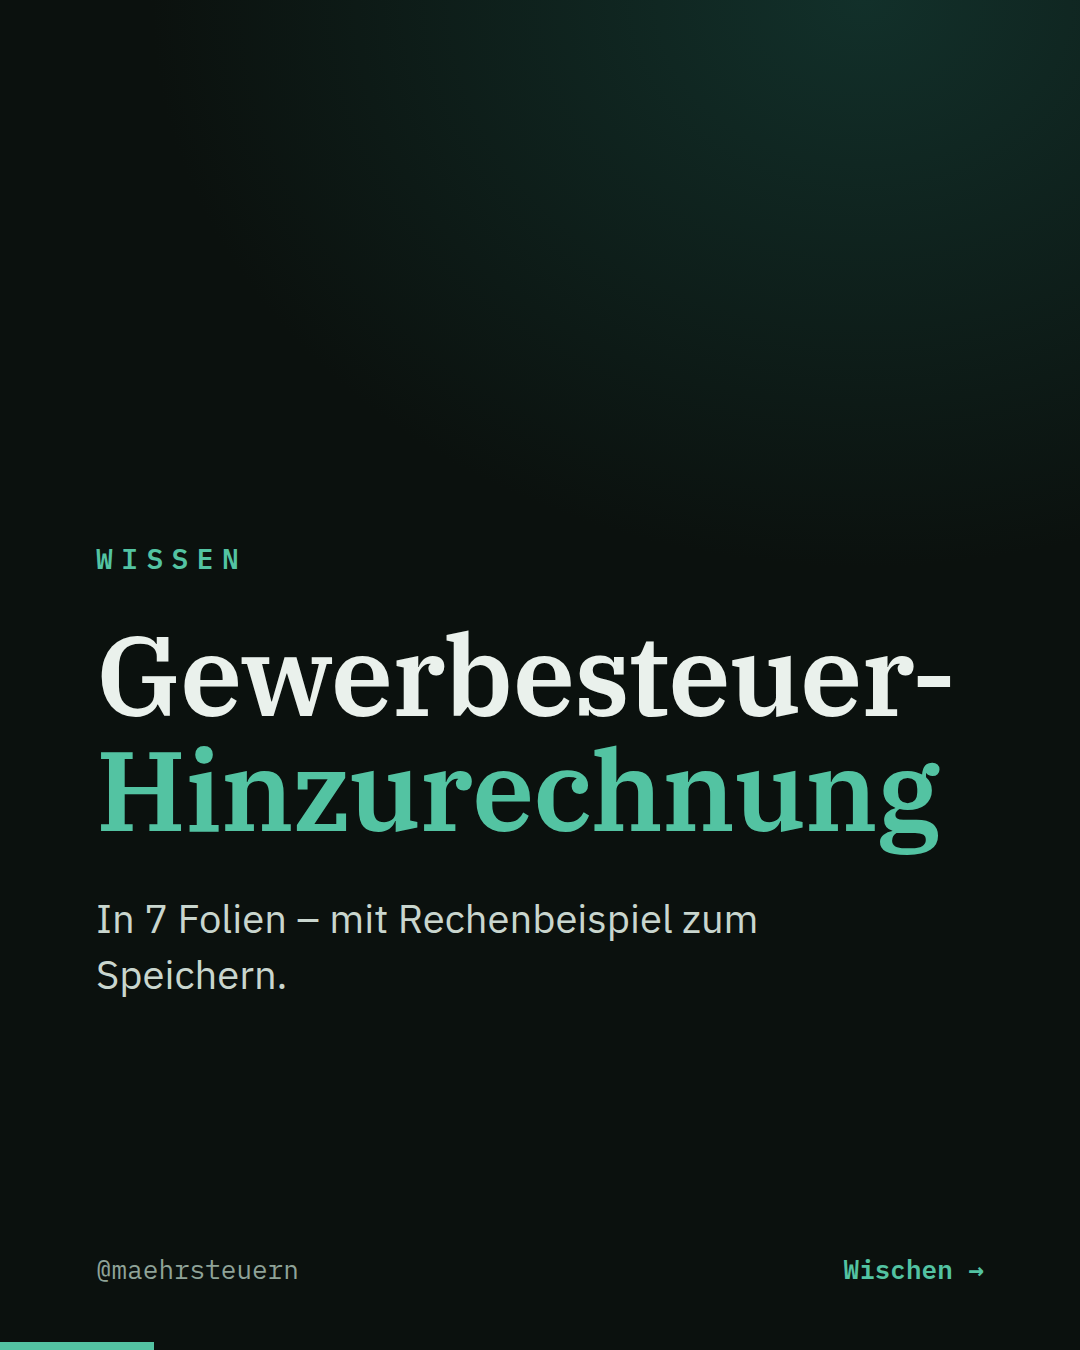
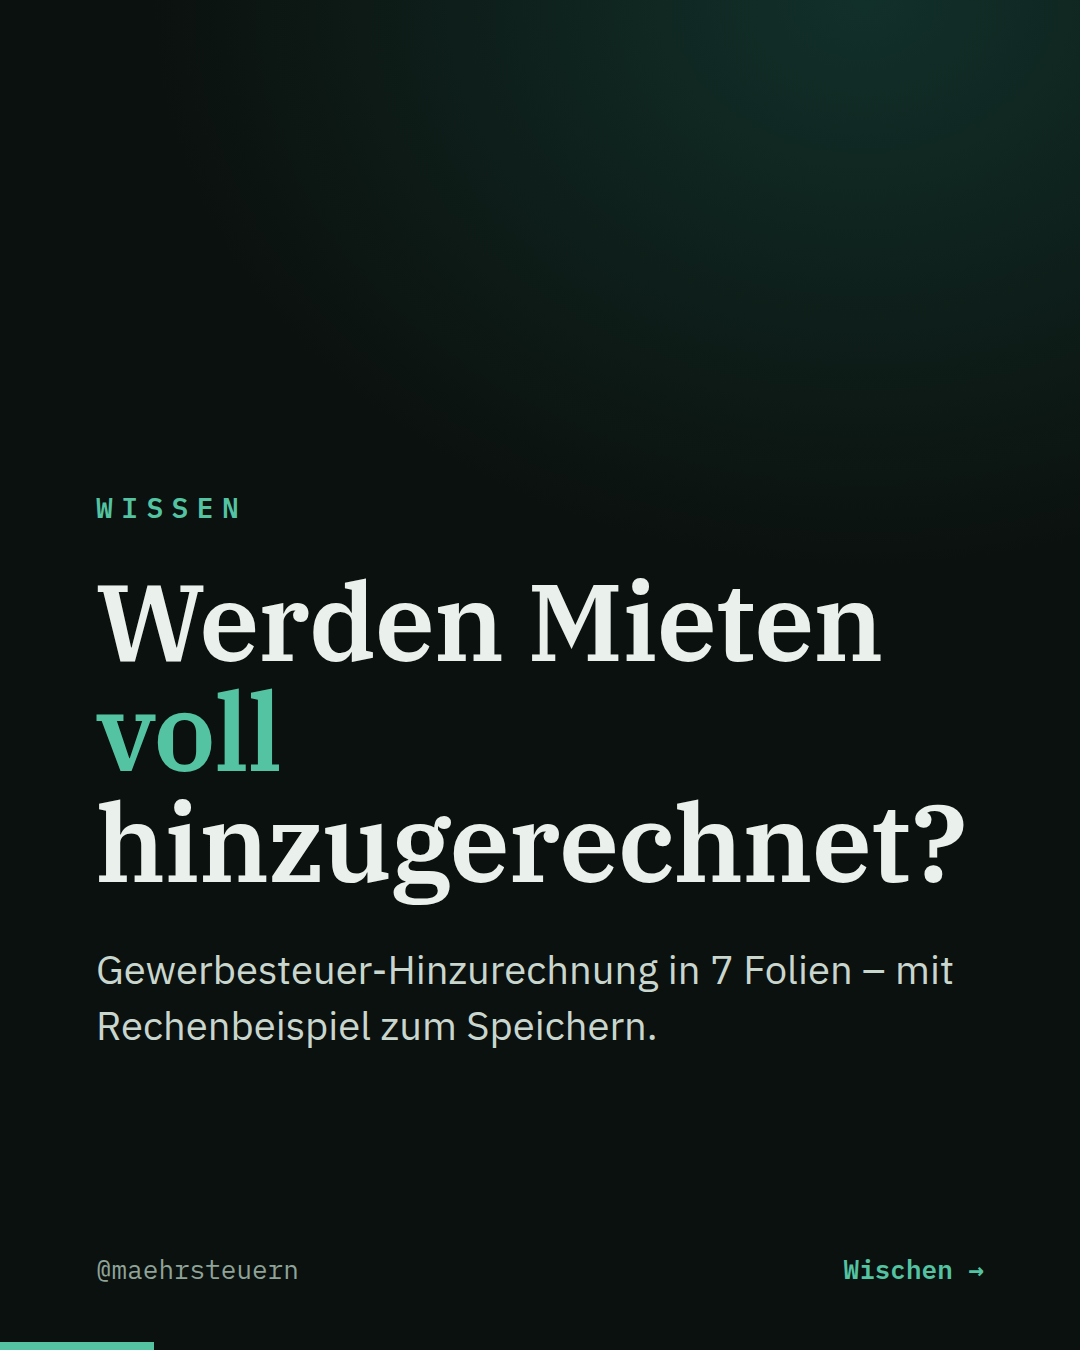
Beitrag 03: Hook „Werden Mieten voll hinzugerechnet?“
Folie 1, Teaser-Story und erste Zeile der Bildunterschrift angepasst; Antwort bleibt fürs Karussell und die Freitags-Auflösung.

Claude-Session: https://claude.ai/code/session_01CUmxNz8qXvXYfT17imecgu

Changed region(s): [[0.0917, 0.3733, 0.9167, 0.7778], [0.7028, 0.7156, 0.7944, 0.7467], [0.825, 0.7156, 0.8861, 0.7467]]

diff --git a/strategie/08_hooks.md b/strategie/08_hooks.md
@@ -67,7 +67,7 @@ Der aktuelle Haken bleibt Standard. Die Varianten sind Optionen für die Content
 |---|---|---|---|
 | 01 Reel Ampel (04.10.) | „3 Stunden Excel – oder 3 Sekunden?“ | „Was wäre, wenn deine Rückstellung in *3 Sekunden* steht?“ (Enthüllung) | „Bye bye *Tabellenchaos*.“ (Kontroverse) |
 | 02 Excel-Fehler (06.10.) | „5 Excel-Fehler, die fast jede Steuerrückstellung hat“ | „5 *red flags* in deiner Steuerrückstellung.“ | „Fehler Nr. 3 macht *fast jeder*.“ (Neugier auf eine Folie) |
-| 03 GewSt-Hinzurechnung (13.10.) | „Gewerbesteuer-Hinzurechnung in 7 Folien“ | „Werden Mieten *voll* hinzugerechnet? Nein.“ (Frage + Enthüllung, knüpft ans Quiz an) | „Maximaler Input: *Hinzurechnung* in 7 Folien.“ |
+| 03 GewSt-Hinzurechnung (13.10.) | **übernommen:** „Werden Mieten *voll* hinzugerechnet?“ (Frage, knüpft ans Montags-Quiz an; Antwort bewusst erst im Karussell und in der Freitags-Auflösung) – vorher „Gewerbesteuer-Hinzurechnung in 7 Folien“ | „Maximaler Input: *Hinzurechnung* in 7 Folien.“ |
 | 04 Reel Mein Weg (20.10.) | „Vom Steuer-Studium zum eigenen Steuer-Tool“ | „Warum ich keine Steuer-Excel *mehr baue*.“ | „Da lag ich *falsch*. Du auch?“ |
 | 05 Reel Prüfpfad (27.10.) | „Prüfpfad: Jede Zahl bis zur Quelle klicken“ | „Woher kommt *diese Zahl*? Ein Klick.“ | „Die Frage jeder Betriebsprüfung – in *1 Sekunde* beantwortet.“ |
 | 06 Excel vs. Software vs. Tool (03.11.) | „… ehrlich verglichen“ | „Wir müssen ehrlich über *Standardsoftware* reden.“ | „Brauchst du wirklich *teure Software* für deine Rückstellung?“ (Frage) |

diff --git a/strategie/03_redaktionsplan.md b/strategie/03_redaktionsplan.md
@@ -24,7 +24,7 @@ Nach Feierabend sind Berufstätige und Studierende gleichzeitig online, Begründ
 |---|---|---|---|---|---|---|
 | 1 | So 04.10. | Demo | Reel | **„Ertragsteuer-Ampel: 3 Sekunden statt 3 Stunden“** – Dashboard zeigt Rot/Gelb/Grün je Position | Frage: „Wie lange dauert bei euch die Steuerrückstellung?“ | **fertig** (`posts/01_…`) |
 | 2 | 06.10. | Praxis | Karussell | **„5 Excel-Fehler in deiner Steuerrückstellung“** | Umfrage: „Hattest du schon mal #BEZUG! kurz vor Abgabe?“ | **fertig** (`posts/02_…`) |
-| 3 | 13.10. | Wissen | Karussell | **„Gewerbesteuer-Hinzurechnung in 7 Folien – mit Rechenbeispiel“** (Demo-Zahlen) | Quiz: „Werden Mieten voll hinzugerechnet?“ | **fertig** (`posts/03_…`) |
+| 3 | 13.10. | Wissen | Karussell | **„Werden Mieten voll hinzugerechnet?“** – Gewerbesteuer-Hinzurechnung in 7 Folien mit Rechenbeispiel (Demo-Zahlen) | Quiz: „Werden Mieten voll hinzugerechnet?“ | **fertig** (`posts/03_…`) |
 | 4 | 20.10. | Hinter dem Code | Reel (Gesicht) | **„Vom Steuer-Studium zum eigenen Tool“** – 3 Stationen in 20 s | Frage: „Was willst du über mich wissen?“ | Bausteine fertig, **Clips von dir bis 15.10.** (`posts/04_…/drehbuch.md`) |
 | 5 | 27.10. | Demo | Reel | **„Prüfpfad: Jede Zahl bis zur Quelle klicken“** | Umfrage: „Wie viele Tabellenblätter hat eure größte Steuer-Datei?“ | offen |
 | 6 | 03.11. | Praxis | Karussell | **„Excel vs. Standardsoftware vs. eigenes Tool – ehrlich verglichen“** (knüpft an die Umfrage im angepinnten Reel an) | Umfrage: „Team Code oder Team Excel?“ | offen |
